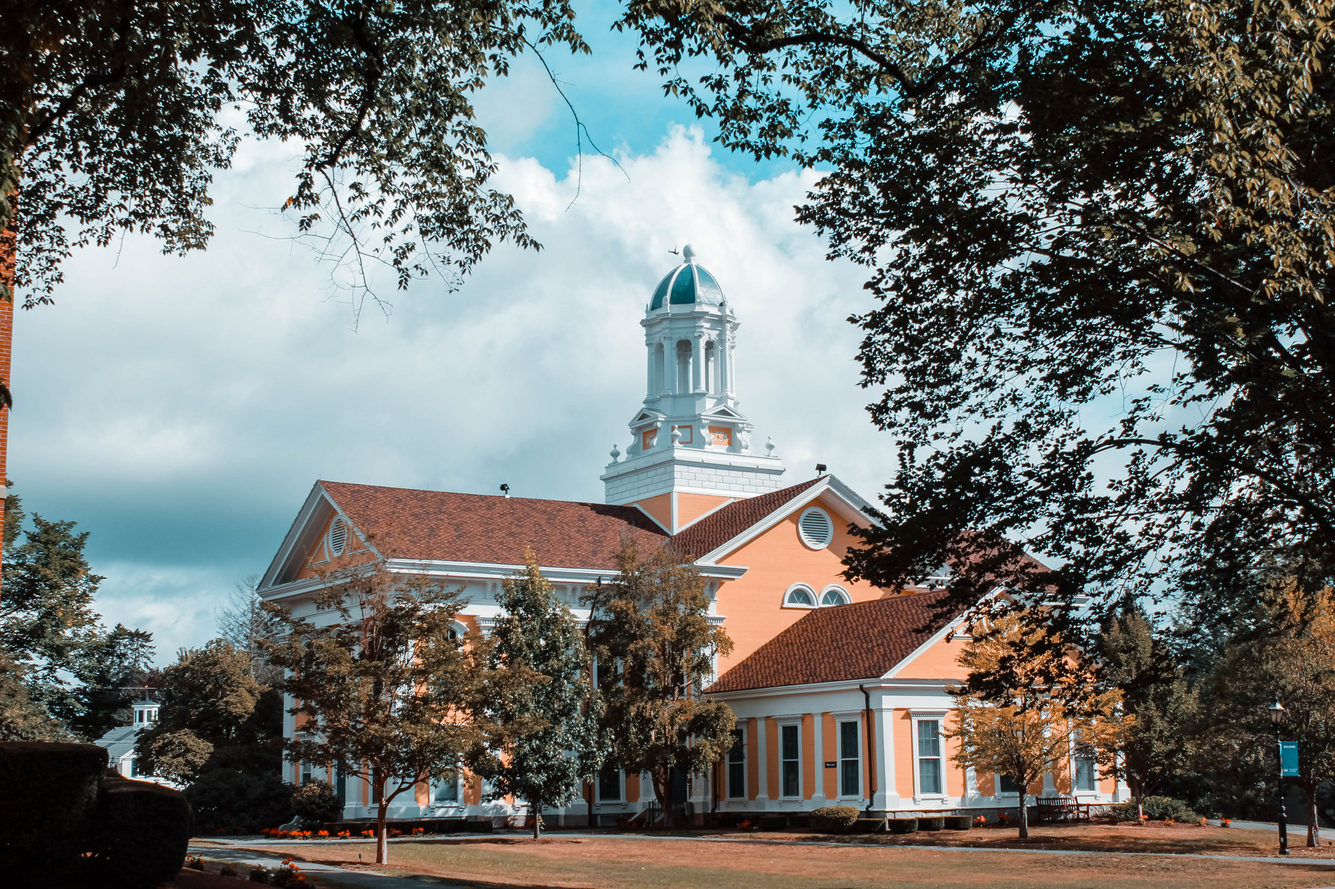
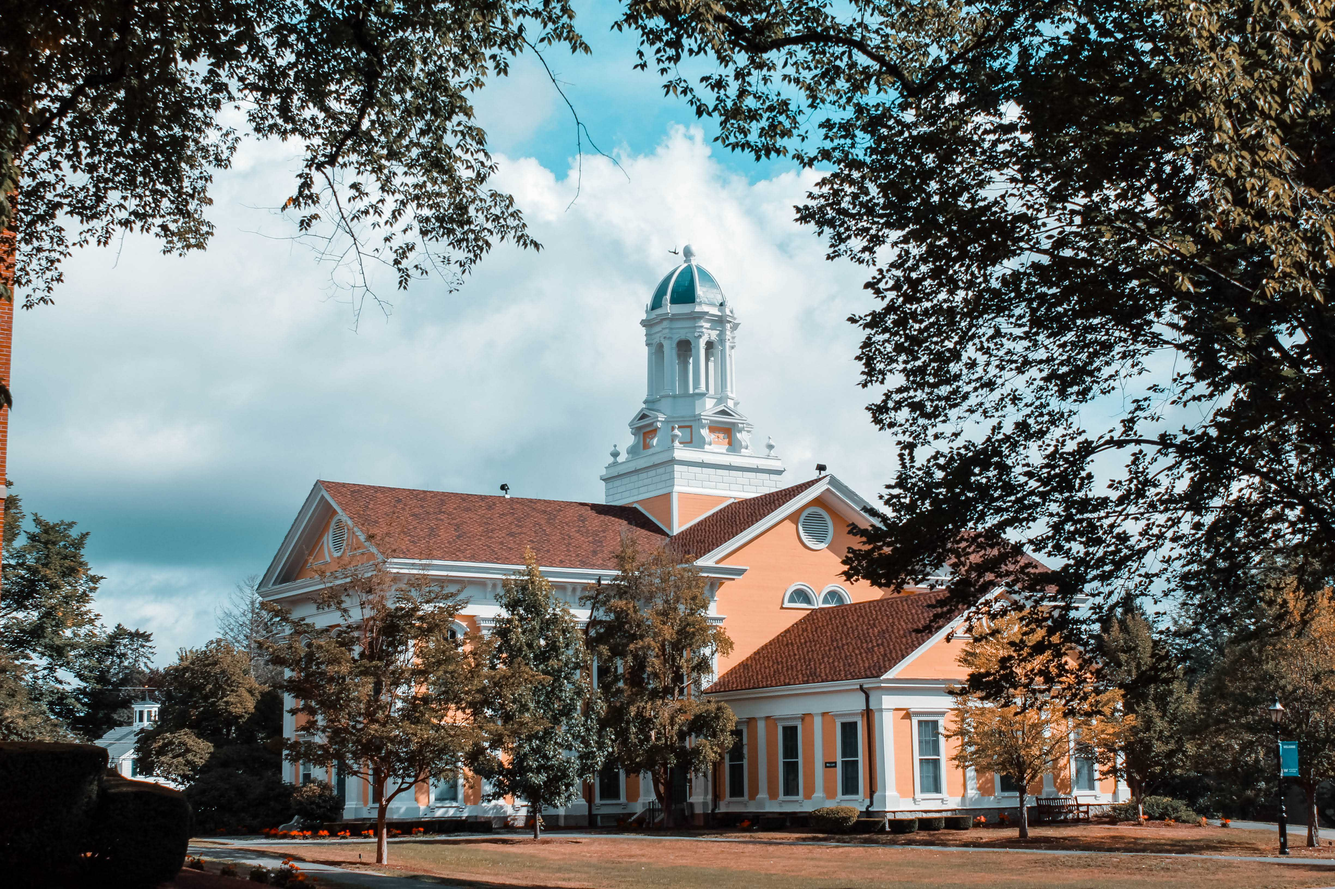
added the image compression.

diff --git a/gallery.html b/gallery.html
@@ -34,6 +34,7 @@
 <div class='col-lg-6 col-md-12 col-sm-12'><img alt=bike.jpg src=images/gallery/bike.jpg></div>
 <div class='col-lg-6 col-md-12 col-sm-12'><img alt=zebra.jpg src=images/gallery/zebra.jpg></div>
 <div class='col-lg-6 col-md-12 col-sm-12'><img alt=IMG_3811.jpg src=images/gallery/IMG_3811.jpg></div>
+<div class='col-lg-6 col-md-12 col-sm-12'><img alt=IMG_4029.jpg src=images/gallery/IMG_4029.jpg></div>
 <div class='col-lg-6 col-md-12 col-sm-12'><img alt=maryLyon.jpg src=images/gallery/maryLyon.jpg></div>
 <div class='col-lg-6 col-md-12 col-sm-12'><img alt=craigni.jpg src=images/gallery/craigni.jpg></div>
 <div class='col-lg-6 col-md-12 col-sm-12'><img alt=antigua.jpg src=images/gallery/antigua.jpg></div>

diff --git a/galleryGenerator.py b/galleryGenerator.py
@@ -10,6 +10,7 @@ def start():
 	path = "/Users/phuntsho/Desktop/Watson/website/Watson-web/images/gallery/"  # Defualt the path for the directory.  
 	if not os.path.exists(path):
 		print("Path of the file is Invalid")	
+
 	return (path)
 
 
@@ -44,6 +45,11 @@ def createFile(path):
    		if (item == ".DS_Store"):					# Need this since there is always .DS_Store file. 
    			continue
    		else:
+   			im = Image.open(path+item)				# Opens each individual image in the folder.
+   			print('Before compress   : ',  os.path.getsize (path+item))
+   			im.save(path+item,"jpeg", optimize=True,quality=50)
+   			print('After compress   : ', os.path.getsize (path+item) )
+   			print('-----------------' )
    			#im = Image.open(path+item)				# Opens each individual image in the folder.
    			source = "<div class='col-lg-6 col-md-12 col-sm-12'><img alt=" + item + " src=" + local_path + item + "></div>\n"
    			f.write(source)

diff --git a/Imageresize.py b/Imageresize.py
@@ -41,7 +41,7 @@ def main():
    			width, height = im.size					# Stores the original width and height of the image.				
    			print("Image name: %s...  width:  %d. height:  %d" % (item[0:10],width,height))	# Print original width and height of the image with the name.
    			img = im.resize(size,Image.ANTIALIAS)	# Resizes each image into the set given size(400x350)
-   			img.save(path+item,"png") 				# Saves the image as its orginial filename in its original folder. 
+   			img.save(path+item,"png",optimize=True,quality=50) 			# Saves the image as its orginial filename in its original folder. 
    			image_count = image_count +1			# Counter.
 	
 	print("------------------")						# Just a Done message.
